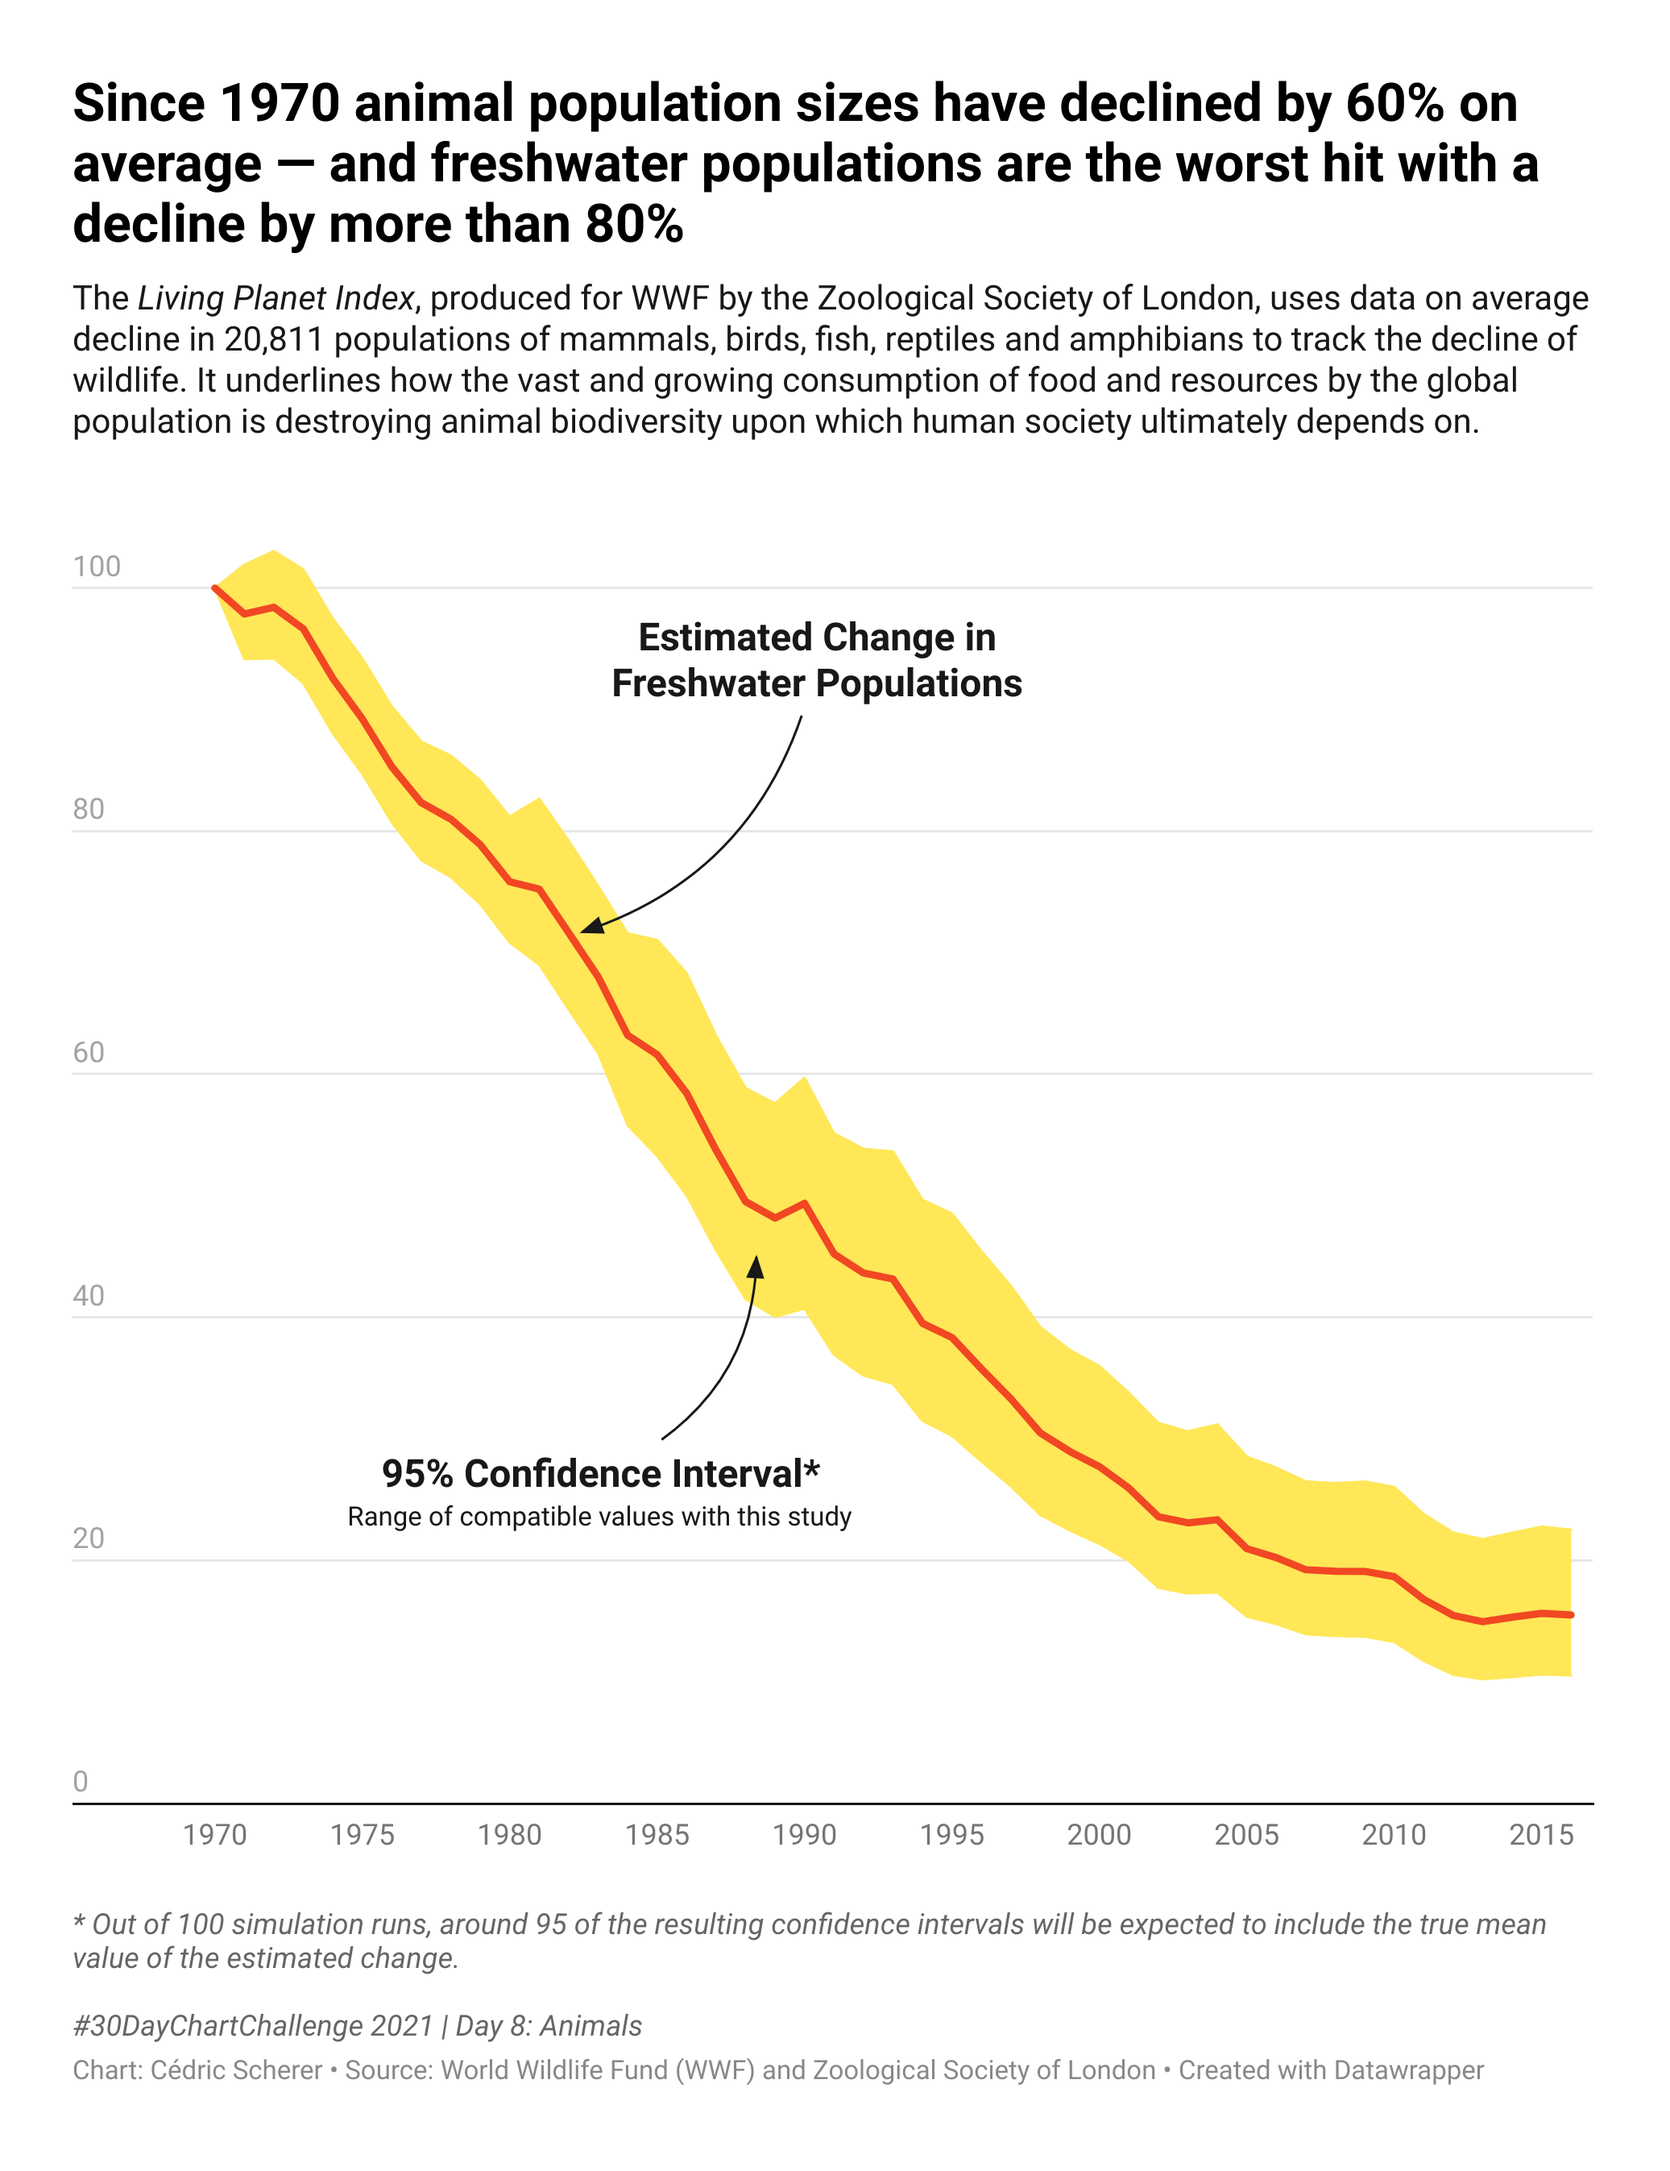
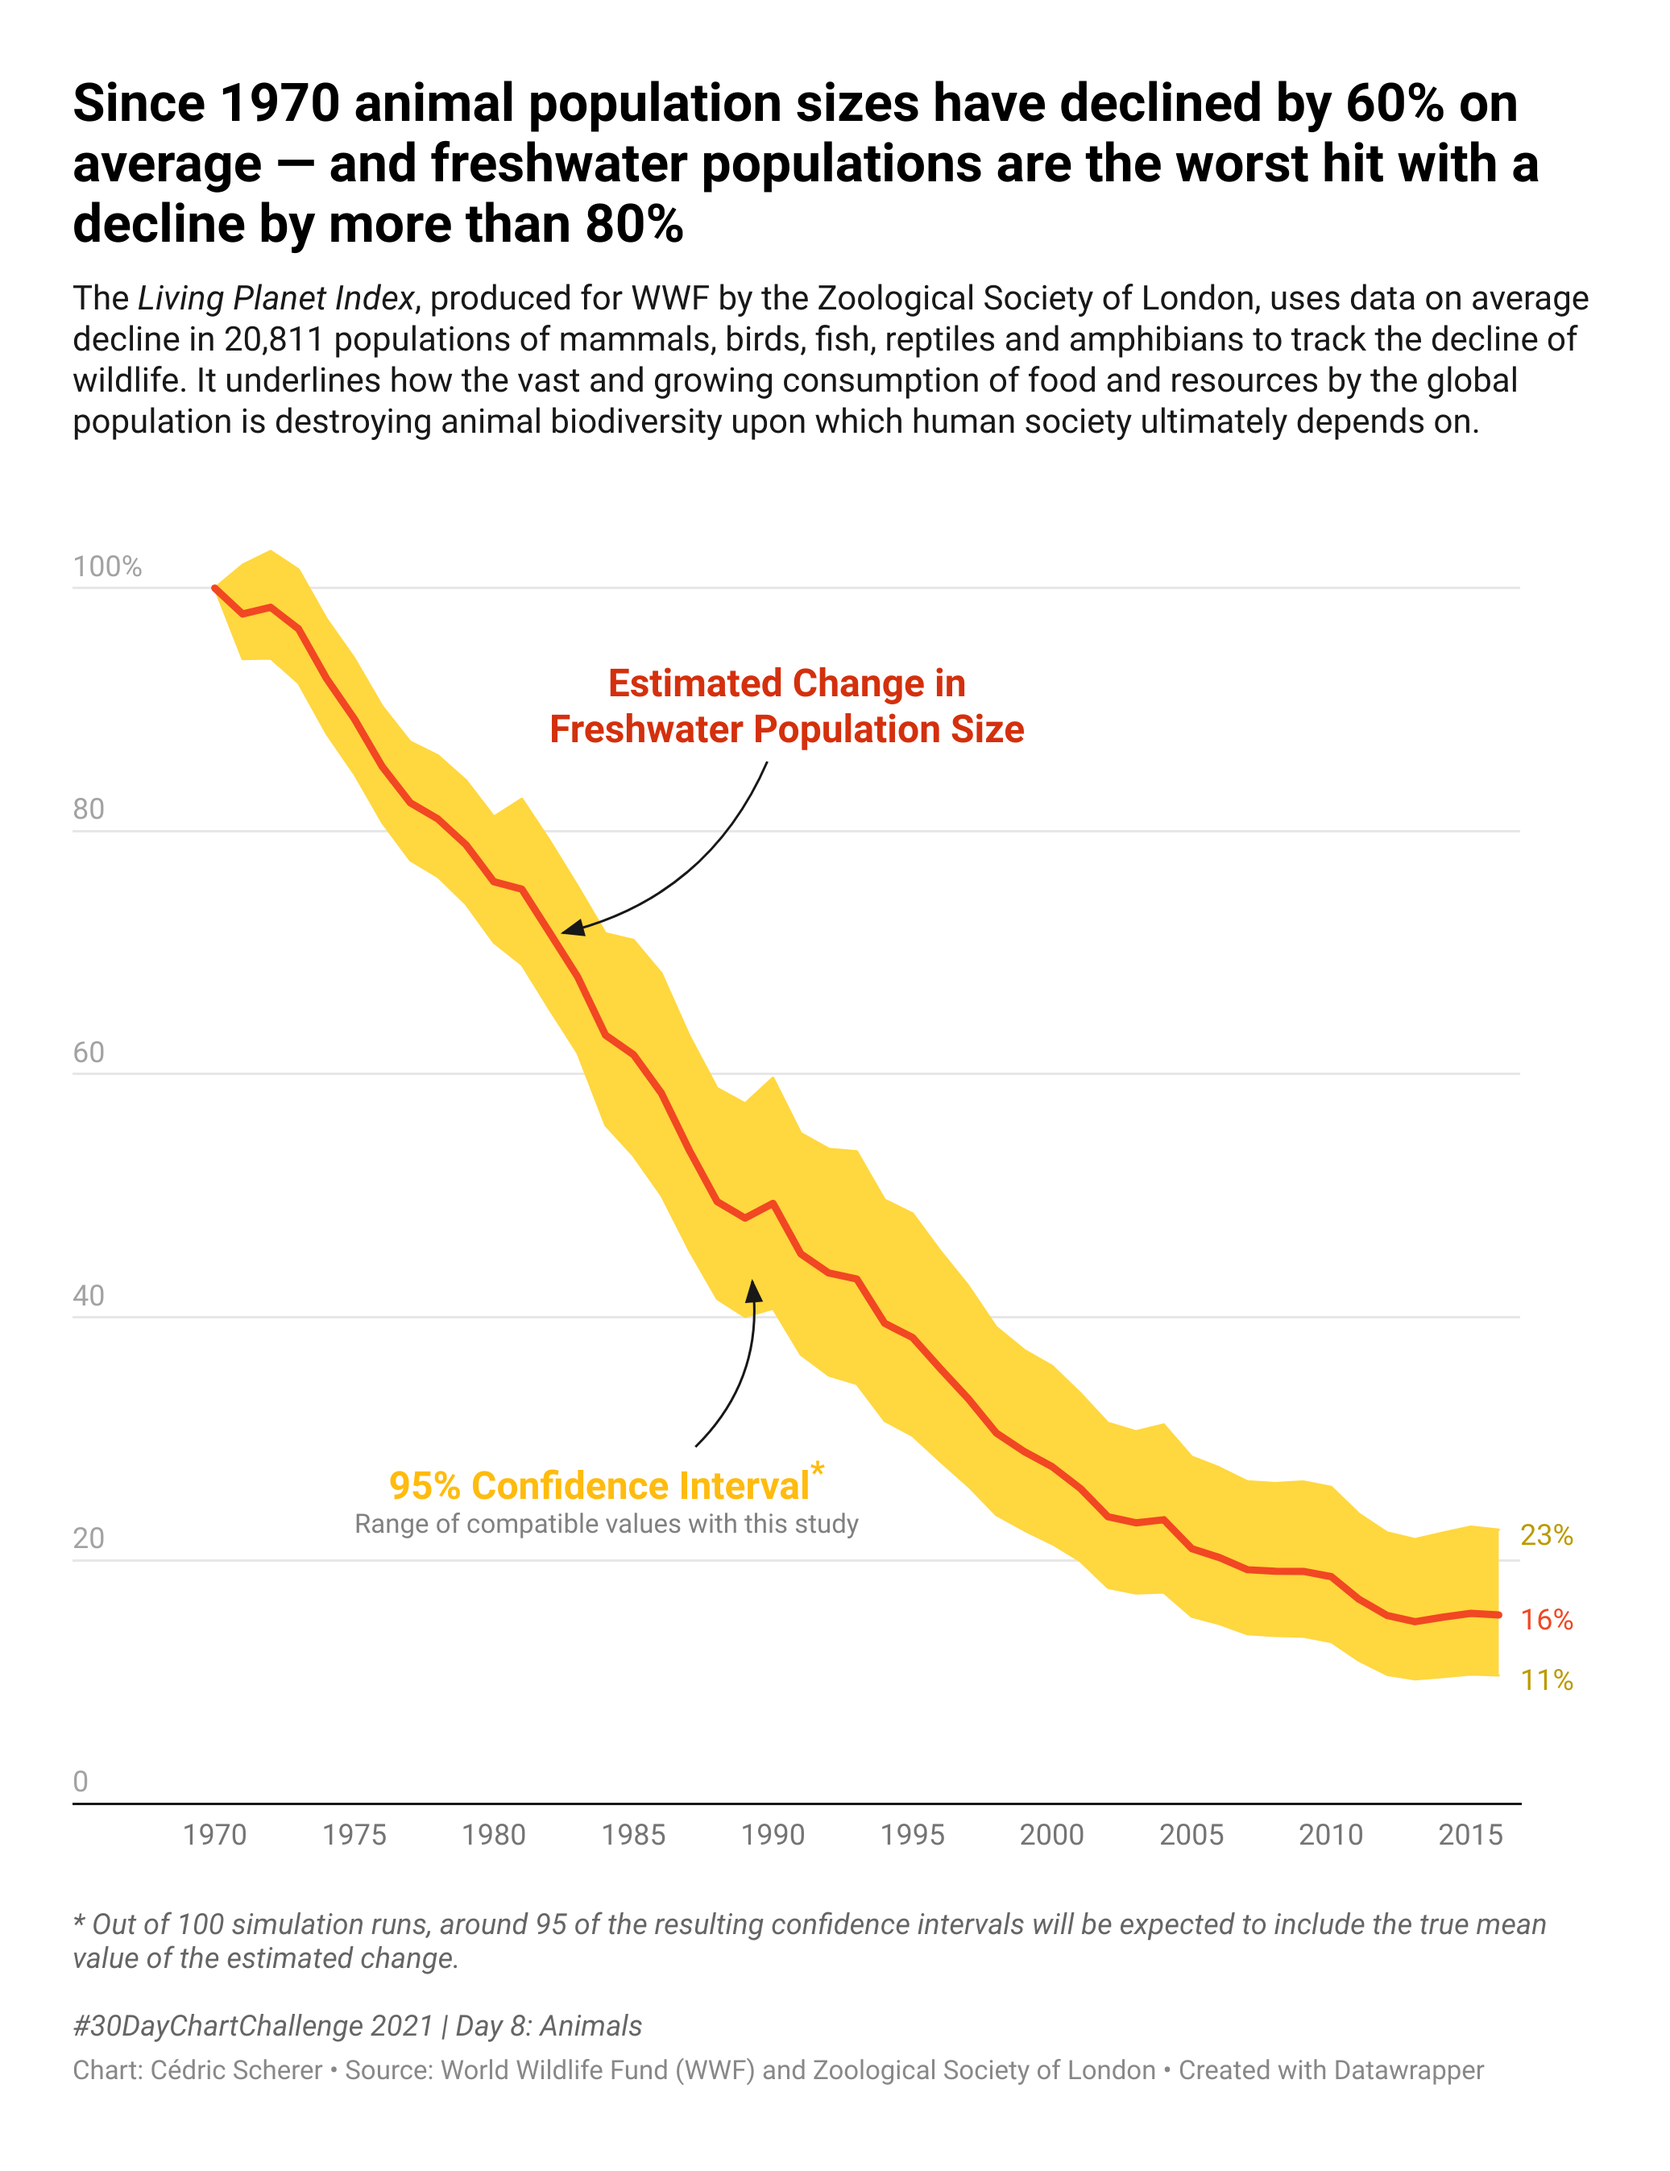
:sparkles: day 8: animals

diff --git a/08_animals/README.md b/08_animals/README.md
@@ -1,6 +1,2 @@
 ### #30DayChartChallenge — Distributions — Day 8: Animals
-![](https://raw.githubusercontent.com/Z3tt/30DayChartChallenge/main/08_animals/08_animals_log.png)<br>***Tools:*** *DataWrapper*<br>
-[Interactive version](https://datawrapper.dwcdn.net/4pp6O/6/)<br><br>
-**Previous version with linear scale:**
-![](https://raw.githubusercontent.com/Z3tt/30DayChartChallenge/main/08_animals/08_animals_lin.png)<br>***Tools:*** *DataWrapper*<br>
-[Interactive version](https://datawrapper.dwcdn.net/bK7C2/3/)<br><br>
+![](https://raw.githubusercontent.com/Z3tt/30DayChartChallenge/main/13_correlation/13_correlation.png)<br>***Tools:*** *Flourish* ([Interactive version](https://public.flourish.studio/visualisation/5846249/))
